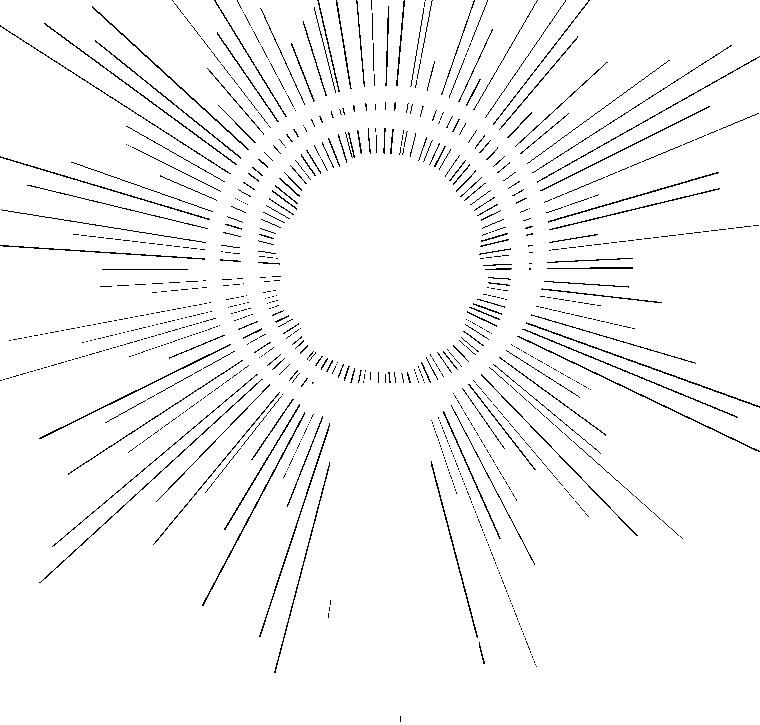
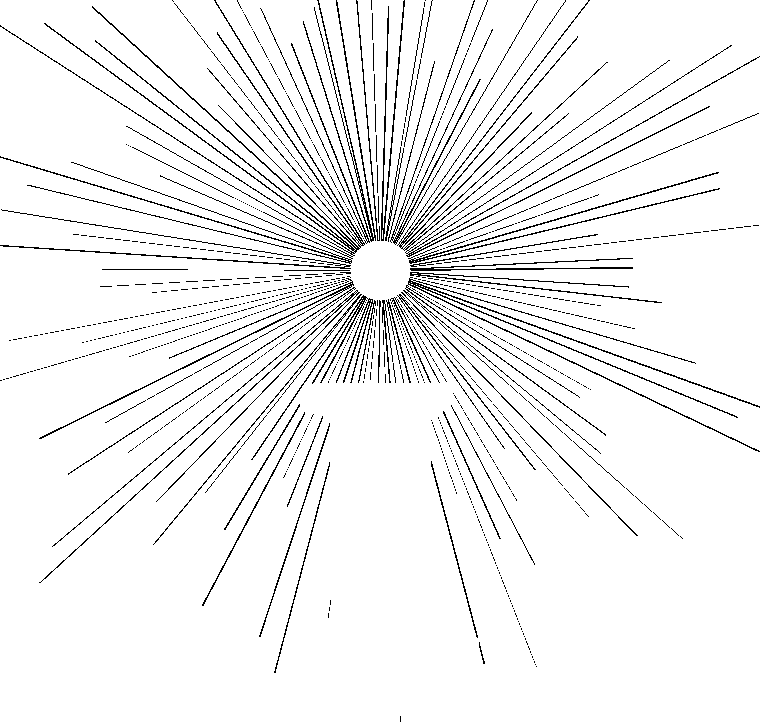
Lupe raus, Strahlen hinter dem Ikosaeder ohne Ausschnitt
- Dither-Lupe unter Maus/Finger entfernt (zu unruhig)
- Strahlen werden nur noch um die Säule ausgespart; das drehende
  Ikosaeder bekommt pro Bild eine Unterlage in Hintergrundfarbe
  (img/hero-ico-knock.png), statt dass ein festes Rechteck fehlt
- Titelbild auf dem Handy wieder sichtbar (Breite war 0)

Claude-Session: https://claude.ai/code/session_01LNzrWxAp5GT8CX9ie4kybY

diff --git a/index.html b/index.html
@@ -99,19 +99,10 @@
     -webkit-mask: var(--m) 0 0 / 100% 100% no-repeat; mask: var(--m) 0 0 / 100% 100% no-repeat; }
   .layer.ico::after { -webkit-mask-size: 2400% 100%; mask-size: 2400% 100%;
     -webkit-mask-position: calc(var(--f, 0) * 100% / 23) 0; mask-position: calc(var(--f, 0) * 100% / 23) 0; }
-
-  /* Dither-Lupe: unter Maus oder Finger kippen die Rasterpunkte in eine Kontrastfarbe */
-  @property --lr { syntax: "<length>"; inherits: true; initial-value: 0px; }
-  .art, .layer { --lr: 0px; transition: --lr .25s ease-out; }
-  .art.lens, .layer.lens { --lr: 64px; }
-  .art::before, .layer::before { content: ""; position: absolute; inset: 0; z-index: 1; pointer-events: none; background: var(--lens-c, var(--paper));
-    -webkit-mask: var(--m) center / 240px 240px no-repeat, radial-gradient(circle var(--lr) at var(--mx, -999px) var(--my, -999px), #000 97%, transparent 100%);
-    mask: var(--m) center / 240px 240px no-repeat, radial-gradient(circle var(--lr) at var(--mx, -999px) var(--my, -999px), #000 97%, transparent 100%);
-    -webkit-mask-composite: source-in; mask-composite: intersect; }
-  .layer::before { --lens-c: var(--accent); -webkit-mask-position: 0 0, 0 0; mask-position: 0 0, 0 0; -webkit-mask-size: 100% 100%, auto; mask-size: 100% 100%, auto; }
-  .layer.ico::before { -webkit-mask-size: 2400% 100%, auto; mask-size: 2400% 100%, auto;
-    -webkit-mask-position: calc(var(--f, 0) * 100% / 23) 0, 0 0; mask-position: calc(var(--f, 0) * 100% / 23) 0, 0 0; }
-  @media (max-width: 560px) { .opus .art::before { -webkit-mask-size: 480px 480px, auto; mask-size: 480px 480px, auto; } }
+  /* Unterlage in Hintergrundfarbe: verdeckt die Strahlen genau hinter dem aktuellen Bild */
+  .layer.ico::before { content: ""; position: absolute; inset: 0; background: var(--ink);
+    -webkit-mask: url(img/hero-ico-knock.png) 0 0 / 2400% 100% no-repeat; mask: url(img/hero-ico-knock.png) 0 0 / 2400% 100% no-repeat;
+    -webkit-mask-position: calc(var(--f, 0) * 100% / 23) 0; mask-position: calc(var(--f, 0) * 100% / 23) 0; }
 
   /* Entwickeln beim Reinscrollen: ein Schleier aus Rasterpunkten löst sich auf */
   .veil { position: absolute; inset: 0; width: 100%; height: 100%; z-index: 2; image-rendering: pixelated; pointer-events: none; }
@@ -303,7 +294,7 @@
     nav .links { display: none; }
     .logo { text-align: left; }
     .hero { grid-template-columns: 1fr; padding-top: 36px; }
-    .hero figure { order: -1; max-width: 420px; margin-inline: auto; }
+    .hero figure { order: -1; width: 100%; max-width: 420px; margin-inline: auto; }
     .opera { grid-template-columns: 1fr; }
     .werke summary { grid-template-columns: 40px 1fr auto; }
     .werke .lang { display: none; }
@@ -813,27 +804,6 @@ python3 -m http.server 8000</code><button class="copy" type="button">COPY</butto
     requestAnimationFrame(heroTick);
   }
   if (!calm) requestAnimationFrame(heroTick);
-
-  /* 5) Dither-Lupe */
-  const lensTargets = [...document.querySelectorAll('.art, .layer')];
-  let lensOn = null;
-  function lensMove(e) {
-    const x = e.clientX, y = e.clientY;
-    lensTargets.forEach(el => {
-      const r = el.getBoundingClientRect();
-      const near = x > r.left - 70 && x < r.right + 70 && y > r.top - 70 && y < r.bottom + 70;
-      if (near) {
-        el.style.setProperty('--mx', (x - r.left) + 'px'); el.style.setProperty('--my', (y - r.top) + 'px');
-        el.classList.add('lens');
-      } else el.classList.remove('lens');
-    });
-  }
-  function lensOff() { lensTargets.forEach(el => el.classList.remove('lens')); }
-  addEventListener('pointermove', lensMove, { passive: true });
-  addEventListener('pointerdown', lensMove, { passive: true });
-  addEventListener('pointerup', e => { if (e.pointerType !== 'mouse') setTimeout(lensOff, 500); }, { passive: true });
-  document.addEventListener('pointerleave', lensOff);
-  addEventListener('scroll', () => { if (matchMedia('(hover: none)').matches) lensOff(); }, { passive: true });
 
   /* 6) Tipp-Welle: Ring aus Rasterpunkten vom Tippunkt aus */
   const rc = document.getElementById('ripples'), rctx = rc.getContext('2d');

diff --git a/tools/hero_layers.py b/tools/hero_layers.py
@@ -58,20 +58,25 @@ y0, y1 = max(0, ys.min() * 4 - 16), min(HC, ys.max() * 4 + 20)
 cw, ch = x1 - x0, y1 - y0
 print("Fenster", x0, y0, cw, ch, flush=True)
 
-frames, union = [], np.zeros((H, W), bool)
+frames, objs, union = [], [], np.zeros((H, W), bool)
 for k in range(N):
     ang = np.pi * k / N   # halbe Umdrehung: die y-Achse ist eine 2-zählige Symmetrieachse -> nahtlose Schleife
     v = R.render(scene_ico(ang), W, H, crop=(x0, y0, cw, ch), **CAM)
     m, obj = engrave_layer(v, off=(x0, y0))
     frames.append(m)
+    objs.append(obj)
     union[y0:y0 + ch, x0:x0 + cw] |= obj
     print("Bild", k + 1, "von", N, flush=True)
 sprite = np.concatenate(frames, axis=1)
 save_mask(sprite, f"{OUTDIR}/hero-ico.png")
 
-# Strahlen, ausgespart um Säule und Ikosaeder
+# Unterlage pro Bild: gefüllte Silhouette, damit das Ikosaeder die Strahlen verdeckt
+knock = [R.binary_dilation(obj_k, iterations=5) for obj_k in objs]
+save_mask(np.concatenate(knock, axis=1), f"{OUTDIR}/hero-ico-knock.png")
+
+# Strahlen, nur um die Säule ausgespart (das Ikosaeder deckt sie mit seiner Unterlage selbst ab)
 r = R.rays(W, H, W * 0.5, H * 0.3, n=110)
-r &= ~R.binary_dilation(col_obj | union, iterations=6)
+r &= ~R.binary_dilation(col_obj, iterations=6)
 save_mask(r[:HC], f"{OUTDIR}/hero-rays.png")
 
 # Kontrollbild: alle Ebenen übereinander (Bild 0)
